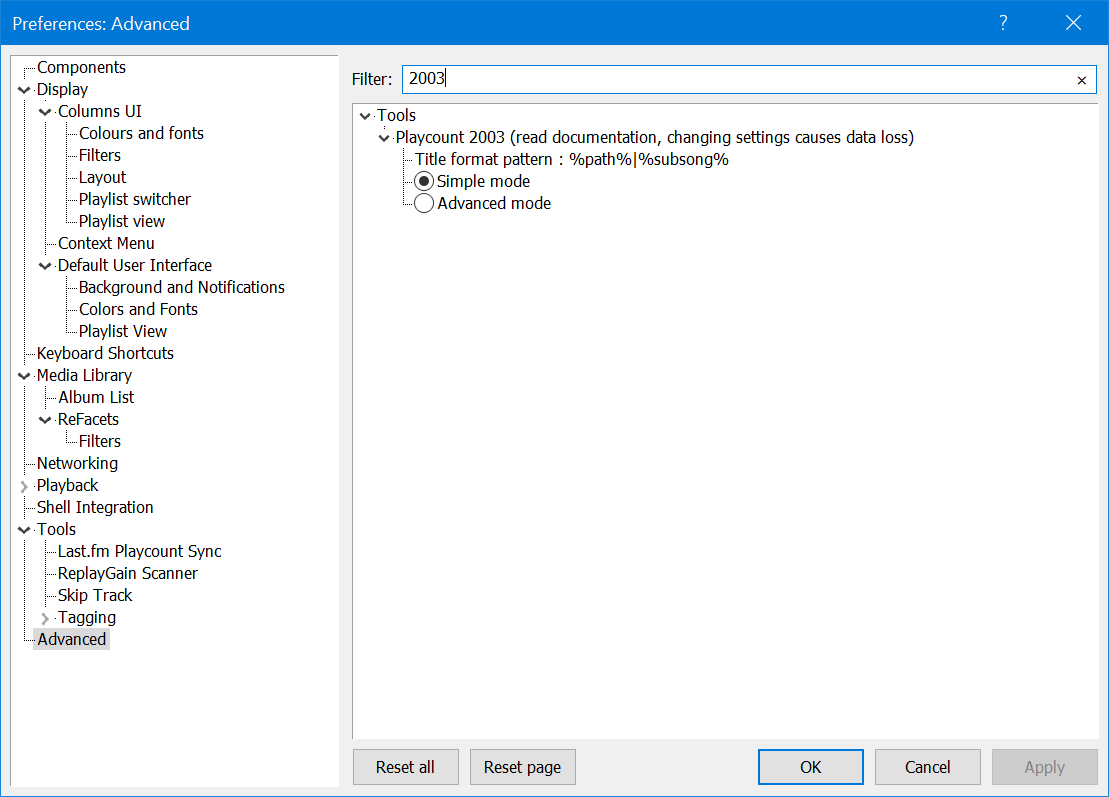
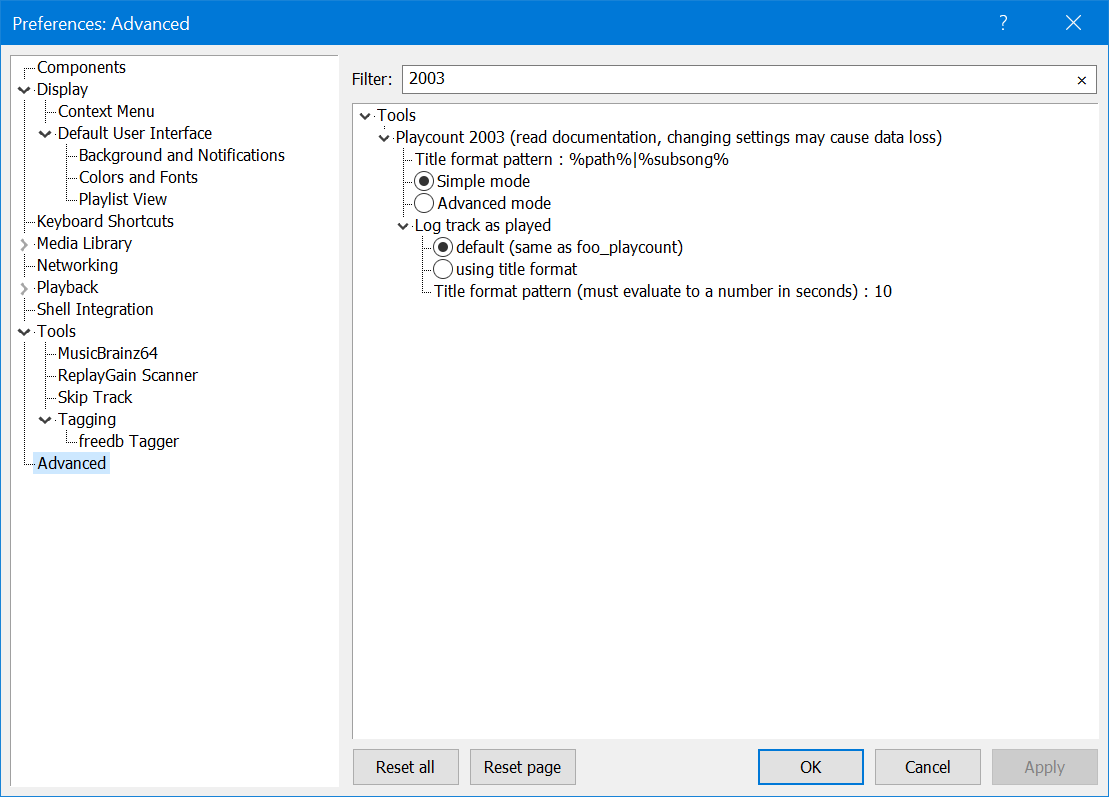
Update docs

Changed region(s): [[0.0307, 0.1205, 0.2453, 0.813], [0.3679, 0.271, 0.7971, 0.3915], [0.7051, 0.1506, 0.8584, 0.1807]]

diff --git a/docs/index.md b/docs/index.md
@@ -23,7 +23,7 @@ The first thing you'll want to do after installing this is check `File>Preferenc
 
 ![playcount preferences](images/playcount-2003-preferences.png)
 
-It's important that settings are decided on before starting as any change causes immediate data loss.
+It's important that the main pattern and `Simple` or `Advanced` mode are decided on before starting as any change causes immediate data loss.
 `foobar2000` will prompt you to restart when changing any setting.
 
 ### Title format pattern
@@ -39,12 +39,33 @@ mean every track will have unique data.
 	%album artist%|%album%|%date%|%discnumber%|%tracknumber%|%title%
 	```
 
-## Common features
-Both `Simple` and `Advanced` mode have these same common features:
+### Log track as played
+!!! note
+	This is only available in component version `0.2` and later. These settings can be changed at anytime.
 
-- database records are remembered for 4 weeks when not monitored as part of the `Media Library` or any loaded playlist. This behaviour is the same as `foo_playcount`.
-- Like `foo_playcount`, tracks are logged after one minute of playback or when playback ends if shorter than one minute.
+The default is to use the same internal method as `foo_playcount`. This means you have to listen to at least 1 minute for it to count. You have to listen to the whole track if it's shorter.
 
+Now you can customise the time in seconds by entering a number or making it dynamic by using title formatting.
+
+You must take care to cover every scenario because there is no safety net. For example if you enter `30`, no track shorter than that will ever count.
+
+Therefore, you would have to consider using `%length_seconds%`
+
+!!! example
+	```
+	// 20%
+	$div(%length_seconds%,5)
+
+	// half the track length or 30 seconds, whichever is lower
+	$if(%length_seconds%,$min($div(%length_seconds%,2),30),)
+	```
+
+If the title format pattern does not evaluate to a number, the track won't be logged.
+
+## Data retention
+Database records are remembered for 4 weeks when not monitored as part of the `Media Library` or any loaded playlist. This behaviour is the same as `foo_playcount`.
+
+## Available fields
 These fields are available globally in `foobar2000` in any playlist columns/search/3rd party panel.
 
 ``` markdown title="Full date/time strings"
@@ -127,12 +148,12 @@ The component will not check if selection items belong to the library when writi
 	internally, zero is reserved for indicating not set. The latest value is some time in the year 2106
 	because 32bit unsigned integers are used for storage.
 
-### Data import / export
+## Data import / export
 You can import/export data either via the main menu > `Library>Playcount 2003` or use the context menu
 on any playlist/library selection. When importing, files must be `UTF8`. With or without `BOM` is
 fine. Exported files are always without `BOM`.
 
-### Command line support
+## Command line support
 You can import `JSON` files via the command line like this:
 
 ```
@@ -194,6 +215,9 @@ var str = JSON.stringify(arr);
 ```
 
 ## Changes
+
+### 0.2
+- You can now configure how much you have to listen to a track before it counts as a play. The default using the same rules as `foo_playcount` remains unchanged. See [here]().
 
 ### 0.1.9
 - Fix `Edit` dialog text truncation and crash bugs.
